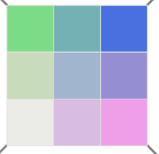
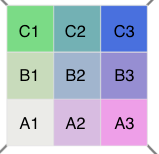
Update app to use new codes

diff --git a/smart-mapping/bivariate-color/app.js b/smart-mapping/bivariate-color/app.js
@@ -13,11 +13,13 @@ require([
   "dojo/dom",
   "dojo/dom-construct",
   "dojo/on",
+  "modules/arcade-generator",
   "dojo/domReady!"
 ], function (
   Color, BasemapToggle,
   PopupTemplate, FeatureLayer, Map, FeatureLayerStatistics, smartMapping,
-  UniqueValueRenderer, SimpleFillSymbol, SimpleLineSymbol, array, dom, domConstruct, on
+  UniqueValueRenderer, SimpleFillSymbol, SimpleLineSymbol, array, dom, domConstruct, on,
+  arcadeGenerator
 ){
 
   var url = dom.byId("url-input").value;
@@ -53,91 +55,100 @@ require([
     return Math.round(num * 100) / 100;
   }
 
-  function getColor(value) {
-    var colors = [
+  function getColor(value, classes) {
+    var colors3 = [
     /////// 3X3
     {
-      value: "a0b03",
+      value: "A1",
       color: "#ebebe8"
     }, {
-      value: "a0b13",
+      value: "B1",
       color: "#cadaba"
     }, {
-      value: "a0b23",
+      value: "C1",
       color: "#84d783"
     }, {
-      value: "a1b03",
+      value: "A2",
       color: "#d6bee2"
     }, {
-      value: "a1b13",
+      value: "B2",
       color: "#a1b5cf"
     }, {
-      value: "a1b23",
+      value: "C2",
       color: "#76b0b4"
     }, {
-      value: "a2b03",
+      value: "A3",
       color: "#eaa5ea"
     }, {
-      value: "a2b13",
+      value: "B3",
       color: "#9491d4"
     }, {
-      value: "a2b23",
+      value: "C3",
       color: "#4474e0"
-    },
+    }];
     ///// 4X4
-    {
-      value: "a0b04",
+    var colors4 = [{
+      value: "A1",
       color: "#f3ded9"
     }, {
-      value: "a0b14",
+      value: "B1",
       color: "#c7c791"
     }, {
-      value: "a0b24",
+      value: "C1",
       color: "#95b246"
     }, {
-      value: "a0b34",
+      value: "D1",
       color: "#599c01"
     }, {
-      value: "a1b04",
+      value: "A2",
       color: "#e0bcea"
     }, {
-      value: "a1b14",
+      value: "B2",
       color: "#b8a6a4"
     }, {
-      value: "a1b24",
+      value: "C2",
       color: "#8b925f"
     }, {
-      value: "a1b34",
+      value: "D2",
       color: "#587d09"
     }, {
-      value: "a2b04",
+      value: "A3",
       color: "#c69af9"
     }, {
-      value: "a2b14",
+      value: "B3",
       color: "#a386b4"
     }, {
-      value: "a2b24",
+      value: "C3",
       color: "#7d7270"
     }, {
-      value: "a2b34",
+      value: "D3",
       color: "#535f2f"
     }, {
-      value: "a3b04",
+      value: "A4",
       color: "#a57aff"
     }, {
-      value: "a3b14",
+      value: "B4",
       color: "#8867c0"
     }, {
-      value: "a3b24",
+      value: "C4",
       color: "#6a5580"
     }, {
-      value: "a3b34",
+      value: "D4",
       color: "#484242"
     }];
 
-    var pair = colors.find(function(item, i){
-      return item.value === value;
-    });
+    var pair;
+    if (classes === 3){
+      pair = colors3.find(function(item, i){
+        return item.value === value;
+      });
+    } else {
+      pair = colors4.find(function(item, i){
+        return item.value === value;
+      });
+    }
+
+    console.log("pair: ", pair);
 
     return pair.color;
   }
@@ -361,14 +372,14 @@ require([
 
   function setLabels(classes){
 
-    col1.innerHTML = ABREAKS[0].label;
-    col2.innerHTML = ABREAKS[1].label;
-    col3.innerHTML = ABREAKS[2].label;
+    col1.innerHTML = BBREAKS[0].label;
+    col2.innerHTML = BBREAKS[1].label;
+    col3.innerHTML = BBREAKS[2].label;
 
     if(classes === 3){
-      row3.innerHTML = BBREAKS[0].label;
-      row2.innerHTML = BBREAKS[1].label;
-      row1.innerHTML = BBREAKS[2].label;
+      row3.innerHTML = ABREAKS[0].label;
+      row2.innerHTML = ABREAKS[1].label;
+      row1.innerHTML = ABREAKS[2].label;
       row1.style.top = "-15px";
       row2.style.top = "15px";
       row3.style.top = "40px";
@@ -379,12 +390,12 @@ require([
       col4.style.visibility = "hidden";
     }
     if (classes === 4){
-      row4.innerHTML = BBREAKS[0].label;
-      row3.innerHTML = BBREAKS[1].label;
-      row2.innerHTML = BBREAKS[2].label;
-      row1.innerHTML = BBREAKS[3].label;
+      row4.innerHTML = ABREAKS[0].label;
+      row3.innerHTML = ABREAKS[1].label;
+      row2.innerHTML = ABREAKS[2].label;
+      row1.innerHTML = ABREAKS[3].label;
 
-      col4.innerHTML = ABREAKS[3].label;
+      col4.innerHTML = BBREAKS[3].label;
       row1.style.top = "5px";
       row2.style.top = "10px";
       row3.style.top = "20px";
@@ -415,35 +426,16 @@ require([
     busySpinner.style.visibility = "hidden";
     var classes = ABREAKS.length;
 
-    var arcade = [
-        'var field1Val = $feature.', getFieldName(), ';\n',
-        'var field1NormVal = ', getNormalizedField() ? '$feature.' + getNormalizedField() + ';\n' : 'null;\n',
-        'var field2Val = $feature.', getFieldName2(), ';\n',
-        'var field2NormVal = ', getNormalizedField2() ? '$feature.' + getNormalizedField2() + ';\n' : 'null;\n',
-        'var classes = ', classes, ';\n',
+    var arcade = arcadeGenerator.getArcade({
+      field1: getFieldName(),
+      normField1: getNormalizedField(),
+      field2: getFieldName2(),
+      normField2: getNormalizedField2(),
+      field1Breaks: ABREAKS,
+      field2Breaks: BBREAKS
+    });
 
-        'var aVal = IIf(IsEmpty(field1NormVal), field1Val, (field1Val / field1NormVal));\n',
-        'var bVal = IIf(IsEmpty(field2NormVal), field2Val, (field2Val / field2NormVal));\n\n',
-        'var ABREAKS = ', simplifyBreaks(ABREAKS), ';\n',
-        'var BBREAKS = ', simplifyBreaks(BBREAKS), ';\n\n',
-        'var aIndex, bIndex;\n',
-
-        'for(var i in ABREAKS){\n',
-        '  if((aVal >= ABREAKS[i].minValue) && (aVal < ABREAKS[i].maxValue)){\n',
-        '    aIndex = i;\n',
-        '  }\n',
-        '}\n',
-
-        'for(var i in BBREAKS){\n',
-        '  if((bVal >= BBREAKS[i].minValue) && (bVal < BBREAKS[i].maxValue)){\n',
-        '    bIndex = i;\n',
-        '  }\n',
-        '}\n',
-
-        'var value = "a" + aIndex + "b" + bIndex + classes;\n',
-
-        'return value;'
-      ].join('');
+    console.log("arcade: ", arcade);
 
     arcadeEditor.value = expression ? expression : arcade;
 
@@ -454,10 +446,22 @@ require([
 
     ABREAKS.forEach(function(aBreak, a){
       BBREAKS.forEach(function(bBreak, b){
-        var val = "a" + a + "b" + b + classes;
+        var val;
+        if (a === 0){
+          val = "A";
+        } else if (a === 1){
+          val = "B";
+        } else if (a === 2){
+          val = "C";
+        } else if (a === 3){
+          val = "D";
+        }
+
+        val += ++b;
+
         uvr.addValue({
           value: val,
-          symbol: createSymbol(getColor(val))
+          symbol: createSymbol(getColor(val, classes))
         });
       });
     });

diff --git a/smart-mapping/bivariate-color/modules/arcade-generator.js b/smart-mapping/bivariate-color/modules/arcade-generator.js
@@ -1,0 +1,53 @@
+define([], function(){
+
+  return {
+    test: function(){
+      console.log("this is a test");
+    },
+
+
+    getArcade: function(params) {
+      var field1 = params.field1;
+      var normField1 = params.normField1;
+      var field2 = params.field2;
+      var normField2 = params.normField2;
+      var field1Breaks = JSON.stringify(params.field1Breaks);
+      var field2Breaks = JSON.stringify(params.field2Breaks);
+      var classes = params.field1Breaks.length;
+
+      var arcade = [
+        'var field1 = $feature.', field1, ';\n',
+        'var normField1 = ', normField1 ? '$feature.' + normField1 + ';\n' : 'null;\n',
+        'var field2 = $feature.', field2, ';\n',
+        'var normField2 = ', normField2 ? '$feature.' + normField2 + ';\n' : 'null;\n',
+        'var classes = ', classes, ';\n',
+        'var field1Code, field2Code;\n',
+
+        'var field1Val = IIf(IsEmpty(normField1), field1, (field1 / normField1));\n',
+        'var field2Val = IIf(IsEmpty(normField2), field2, (field2 / normField2));\n\n',
+
+        'var field1Breaks = ', field1Breaks, ';\n\n',
+        'var field2Breaks = ', field2Breaks, ';\n\n',
+
+        'field1Code = IIf( classes == 3, \n',
+                       'IIf( field1Val <= field1Breaks[0].maxValue, "A", \n',
+                       'IIf( field1Val > field1Breaks[2].minValue, "C", "B" ) ), \n',
+                       '  IIf( field1Val <= field1Breaks[0].maxValue, "A", \n',
+                       '  IIf( field1Val > field1Breaks[3].minValue, "D", \n',
+                       '  IIf( field1Val <= field1Breaks[1].maxValue && field1Val > field1Breaks[1].minValue, "B", "C" ) ) ) );\n\n',
+        'field2Code = IIf( classes == 3, \n',
+                       'IIf( field2Val <= field2Breaks[0].maxValue, "1", \n',
+                       'IIf( field2Val > field2Breaks[2].minValue, "3", "2" ) ), \n',
+                       '  IIf( field2Val <= field2Breaks[0].maxValue, "1", \n',
+                       '  IIf( field2Val > field2Breaks[3].minValue, "4", \n',
+                       '  IIf( field2Val <= field2Breaks[1].maxValue && field2Val > field2Breaks[1].minValue, "2", "3" ) ) ) );\n\n',
+
+        'var code = field1Code + field2Code;\n',
+
+        'return code;'
+      ].join('');
+
+      return arcade;
+    }
+  };
+});

diff --git a/smart-mapping/bivariate-color/index.html b/smart-mapping/bivariate-color/index.html
@@ -7,6 +7,14 @@
     <title>Bivariate color generator</title>
     <link rel="stylesheet" href="//js.arcgis.com/3.17/dijit/themes/claro/claro.css">
 
+    <script>
+      var dojoConfig = {
+        paths: {
+          modules: location.pathname.replace(/\/[^/]+$/, "") + "./modules"
+        }
+      };
+    </script>
+
     <link rel="stylesheet" href="//js.arcgis.com/3.17/esri/css/esri.css">
     <script src="//js.arcgis.com/3.17/"></script>
 
@@ -58,8 +66,8 @@
           </td></tr>
         <tr>
           <td>
-            <b>Field 2</b> &uarr;<br>
-            <b>Field 1</b> &rarr;
+            <b>Field 1</b> &uarr;<br>
+            <b>Field 2</b> &rarr;
           </td>
         </tr>
       </table>
